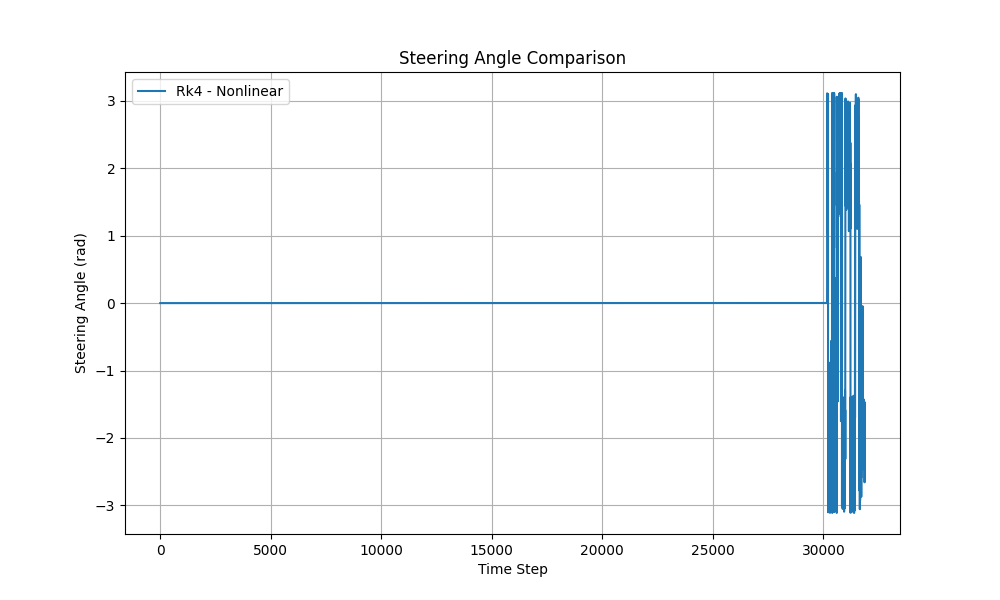
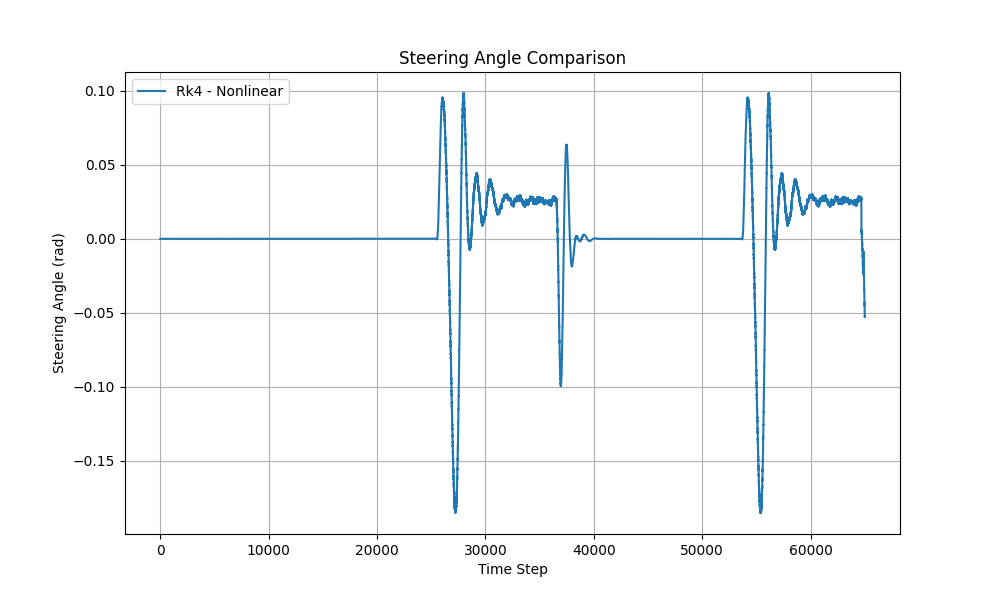
edit parameters

diff --git a/main.py b/main.py
@@ -287,19 +287,19 @@ def main():
 
     # Plot comparisons for each state variable
     plot_trajectory(x_results, y_results, labels, path_spline, show = True)
-    plot_comparison(theta_results, labels, "Heading Angle Comparison", "Time Step", "Heading Angle (rad)", show = False)
-    plot_comparison(steer_results, labels, "Steering Angle Comparison", "Time Step", "Steering Angle (rad)", show = False)
-    plot_comparison(vx_results, labels, "Longitudinal Velocity Comparison", "Time Step", "Velocity (m/s)", show = False)
-    plot_comparison(vy_results, labels, "Lateral Velocity Comparison", "Time Step", "Lateral Velocity (m/s)", show = False)
-    plot_comparison(r_results, labels, "Yaw Rate Comparison", "Time Step", "Yaw Rate (rad/s)", show = False)
-    plot_comparison(ax_results, labels, "Longiudinal Acceleration Comparison", "Time Step", "Acceleration (m/s^2)", show = False)
-    plot_comparison(alpha_f_results, labels, "Front Slip Angle Comparison", "Time Step", "Slip Angle (rad) - Front", show = False)
-    plot_comparison(alpha_r_results, labels, "Rear Slip Angle Comparison", "Time Step", "Slip Angle (rad) - Rear", show = False)
-    plot_comparison(beta_results, labels, "Side Slip Angle Comparison", "Time Step", "Slip Angle (rad) - Side", show = False)
-    plot_comparison(vel_error_results, labels, "velocity error comparison", "Time Step", "Velocity Error (%)", show = False)
+    plot_comparison(theta_results, labels, "Heading Angle Comparison", "Time Step", "Heading Angle (rad)", show = True)
+    plot_comparison(steer_results, labels, "Steering Angle Comparison", "Time Step", "Steering Angle (rad)", show = True)
+    plot_comparison(vx_results, labels, "Longitudinal Velocity Comparison", "Time Step", "Velocity (m/s)", show = True)
+    plot_comparison(vy_results, labels, "Lateral Velocity Comparison", "Time Step", "Lateral Velocity (m/s)", show = True)
+    plot_comparison(r_results, labels, "Yaw Rate Comparison", "Time Step", "Yaw Rate (rad/s)", show = True)
+    plot_comparison(ax_results, labels, "Longiudinal Acceleration Comparison", "Time Step", "Acceleration (m/s^2)", show = True)
+    plot_comparison(alpha_f_results, labels, "Front Slip Angle Comparison", "Time Step", "Slip Angle (rad) - Front", show = True)
+    plot_comparison(alpha_r_results, labels, "Rear Slip Angle Comparison", "Time Step", "Slip Angle (rad) - Rear", show = True)
+    plot_comparison(beta_results, labels, "Side Slip Angle Comparison", "Time Step", "Slip Angle (rad) - Side", show = True)
+    plot_comparison(vel_error_results, labels, "velocity error comparison", "Time Step", "Velocity Error (%)", show = True)
     plot_comparison(lat_error_results, labels, "lateral error comparison", "Time Step", "Lateral Error (m)", show = True)
-    plot_comparison(Fyf_results, labels, "Front Lateral Force", "Time Step", "Lateral Force - front (N)", show = False)
-    plot_comparison(Fyr_results, labels, "Rear Lateral Force", "Time Step", "Lateral Force - rear (N)", show = False)
+    plot_comparison(Fyf_results, labels, "Front Lateral Force", "Time Step", "Lateral Force - front (N)", show = True)
+    plot_comparison(Fyr_results, labels, "Rear Lateral Force", "Time Step", "Lateral Force - rear (N)", show = True)
 
 if __name__ == "__main__":
     main()

diff --git a/parameters.py b/parameters.py
@@ -2,13 +2,13 @@ class SimulationParameters:
     dt = 0.001                  # Time step (s)
     ax = 0.0                    # Constant longitudinal acceleration (m/s^2)
     steer = 0.0                 # Constant steering angle (rad)
-    sim_time = 90.0             # Simulation duration in seconds
+    sim_time = 65.0             # Simulation duration in seconds
     steps = int(sim_time / dt)  # Simulation steps (30 seconds)
-    target_speed = 20.0
-    controller = 'mpc'
+    target_speed = 29.0
+    controller = 'purepursuit'
     figures_path = 'figures/general'
     vehicle_model = [
-        ("rk4", "kinematic"),
+        ("rk4", "nonlinear"),
     ]
 
 
@@ -44,9 +44,9 @@ class StanleyParameters:
 
 class MpcParameters:
     gain_mult = 1.0
-    k_x = 100.0
-    k_y = 100.0
-    k_theta = 10.0
+    k_x = 1.0
+    k_y = 1.0
+    k_theta = 1.0
     T =  1.5                    # Horizon length in seconds
     dt = 0.15        # Horizon timesteps
     N = int(T/dt)             # Horizon total points
